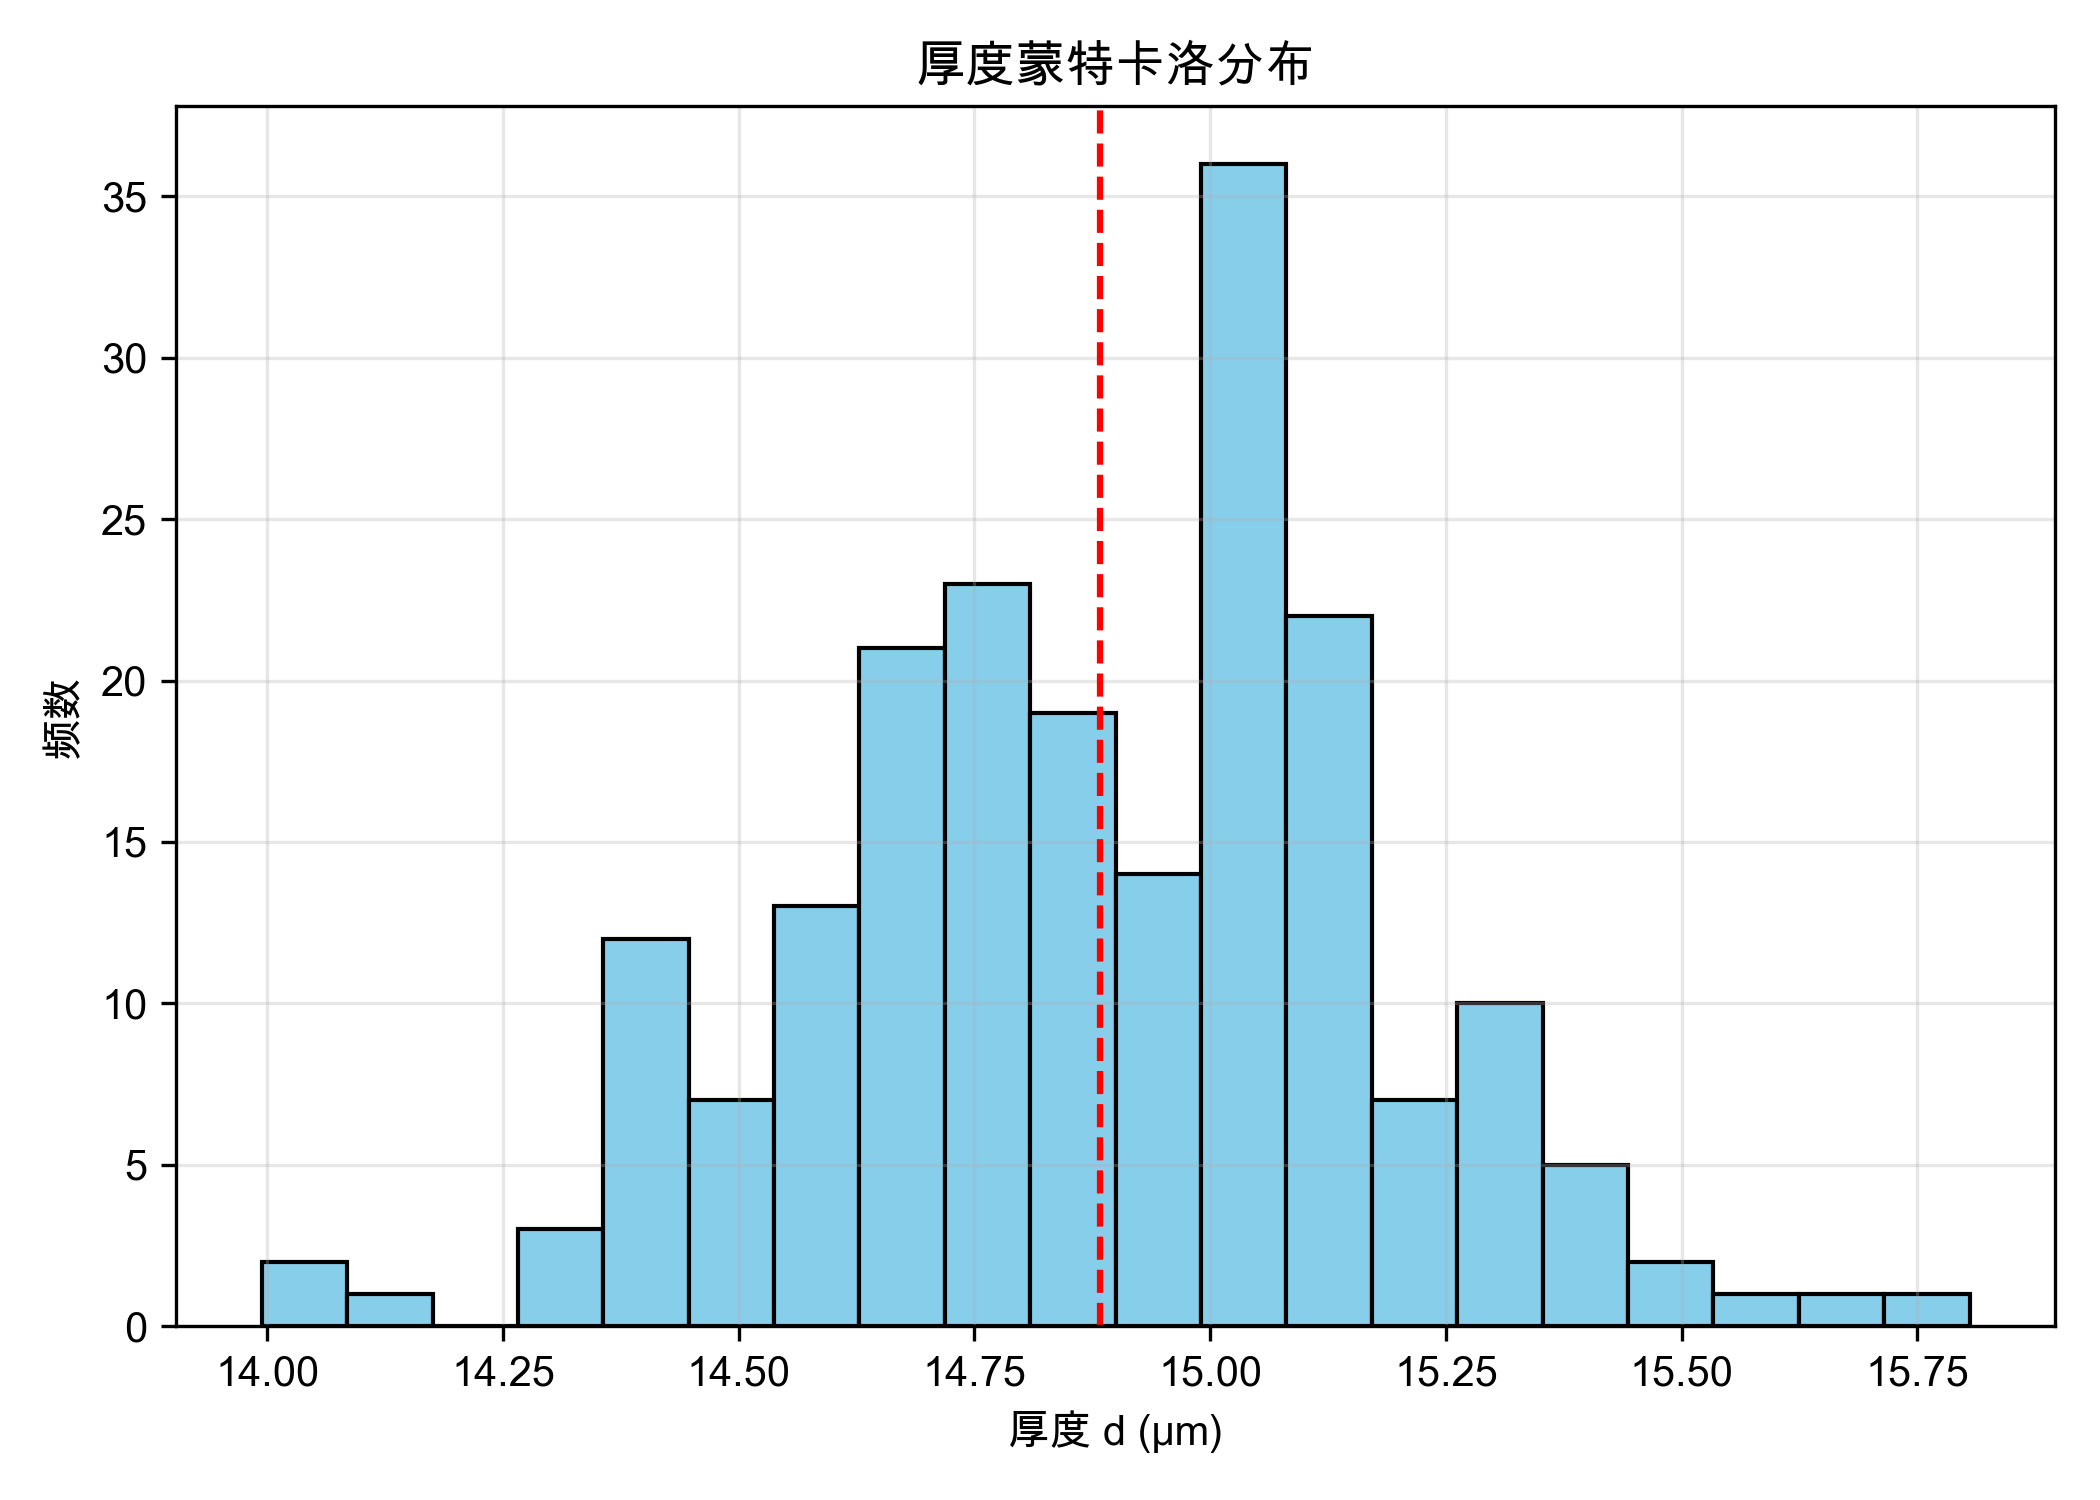
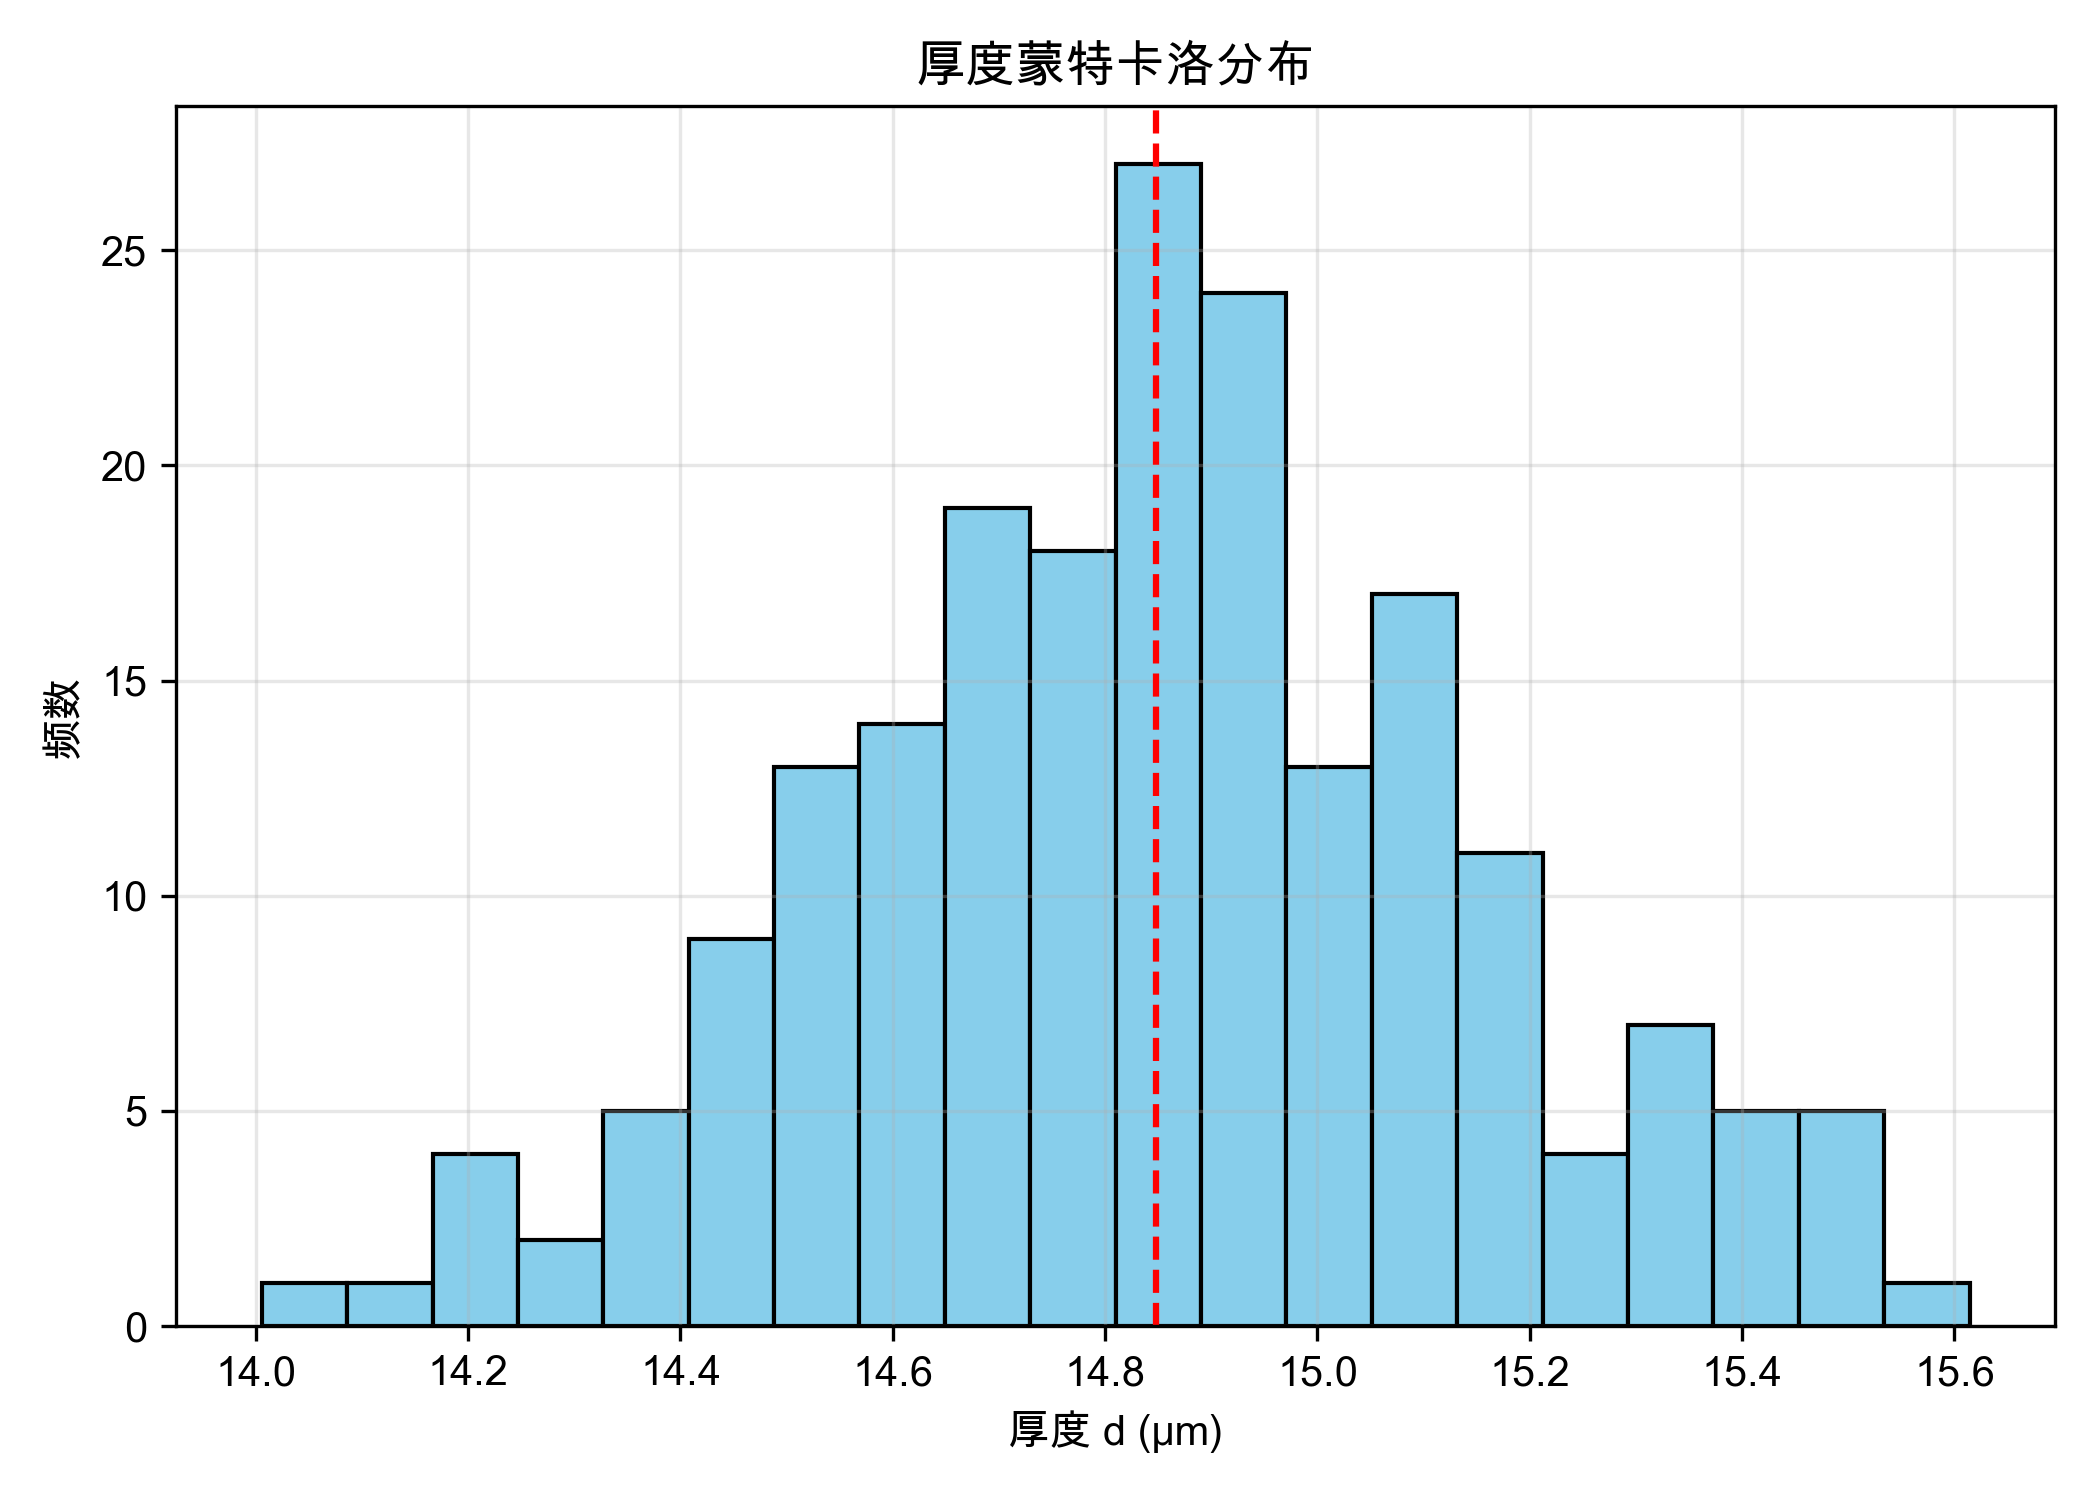
加入滤波

diff --git a/问题3/代码/附件4.py b/问题3/代码/附件4.py
@@ -2,7 +2,7 @@ import numpy as np
 import pandas as pd
 import matplotlib.pyplot as plt
 from scipy.optimize import minimize
-from scipy.signal import find_peaks
+from scipy.signal import find_peaks, savgol_filter
 import os, matplotlib
 
 # 实验参数
@@ -28,19 +28,19 @@ def airy_reflectance(lam, d, A, B, C):
     return (r01**2 + r12**2 + 2*np.abs(r01*r12)*np.cos(2*delta)) / \
            (1 + (r01*r12)**2 + 2*np.abs(r01*r12)*np.cos(2*delta))
 
-# --- 目标函数 ---
-def objective(params, lam, R_exp):
-    d, A, B, C = params
-    return np.mean((airy_reflectance(lam, d, A, B, C) - R_exp)**2)
-
 # --- 数据读取 ---
 df = pd.read_excel("问题3/附件/附件4.xlsx", header=None, skiprows=1)
 wavelength = 1e4 / df.iloc[:,0].astype(float).to_numpy()
 R_exp = df.iloc[:,1].astype(float).to_numpy() / 100
 
-# --- 优化求解 ---
+# --- 数据平滑 ---
+reflectance_filtered = savgol_filter(R_exp, 11, 3)
+
+# --- 优化求解 (基于原始数据) ---
 init_params = [3.0, 2.6, 0.01, 0.0]
-res = minimize(objective, init_params, args=(wavelength, R_exp), method="Nelder-Mead")
+res = minimize(objective := lambda params, lam, R_exp: 
+               np.mean((airy_reflectance(lam, *params) - R_exp)**2),
+               init_params, args=(wavelength, R_exp), method="Nelder-Mead")
 d_fit, A_fit, B_fit, C_fit = res.x
 
 # --- 拟合结果 ---
@@ -48,43 +48,28 @@ R_fit = airy_reflectance(wavelength, d_fit, A_fit, B_fit, C_fit)
 r2 = 1 - np.sum((R_exp - R_fit)**2) / np.sum((R_exp - np.mean(R_exp))**2)
 rmse = np.sqrt(np.mean((R_fit - R_exp)**2))
 
-# --- 保存报告 ---
-report = f"""
-SiC 外延层厚度拟合报告 (15° 入射角)
-================================
-拟合厚度: d = {d_fit:.4f} μm
-Cauchy 参数: A={A_fit:.6f}, B={B_fit:.6f}, C={C_fit:.6e}
-拟合质量: R² = {r2:.6f}, RMSE = {rmse:.6e}
-"""
-with open(os.path.join(output_dir, "附件4拟合报告.txt"), "w", encoding="utf-8") as f:
-    f.write(report)
-
-# --- 导出对比表 ---
-pd.DataFrame({"波长 (μm)": wavelength, "实验反射率": R_exp, "拟合反射率": R_fit}).to_excel(
-    os.path.join(output_dir, "附件4拟合曲线数据.xlsx"), index=False
-)
-
-# --- 图1: 拟合对比 ---
+# --- 图1: 原始 vs 滤波 vs 拟合 ---
 plt.figure(figsize=(8,5))
-plt.plot(wavelength, R_exp, 'b.', label="实验数据")
+plt.plot(wavelength, R_exp, 'b.', alpha=0.5, label="实验数据(原始)")
+plt.plot(wavelength, reflectance_filtered, 'g-', linewidth=1, label="滤波后数据")
 plt.plot(wavelength, R_fit, 'r-', label=f"拟合曲线 (d={d_fit:.3f} μm)")
 plt.xlabel("波长 (μm)"); plt.ylabel("反射率")
 plt.title("附件4公式拟合 (15° 入射角)")
 plt.legend(); plt.grid(alpha=0.3)
-plt.savefig(os.path.join(output_dir, "附件4拟合结果.png"), dpi=300)
+plt.savefig(os.path.join(output_dir, "附件4_拟合对比.png"), dpi=300)
 plt.show()
 
-# --- 图2: 干涉条纹 ---
-peaks, _ = find_peaks(R_exp, distance=30)
+# --- 图2: 干涉条纹 (基于滤波数据) ---
+peaks, _ = find_peaks(reflectance_filtered, distance=30)
 lambda_peaks = wavelength[peaks]
 delta_lambda = np.abs(np.diff(lambda_peaks))
 delta_lambda_mean = np.mean(delta_lambda)
 
 plt.figure(figsize=(8,5))
-plt.plot(wavelength, R_exp*100, label="实验反射率", color="blue")
-plt.scatter(lambda_peaks, R_exp[peaks]*100, color="red", s=40, label="干涉峰")
+plt.plot(wavelength, reflectance_filtered*100, label="滤波反射率", color="blue")
+plt.scatter(lambda_peaks, reflectance_filtered[peaks]*100, color="red", s=40, label="干涉峰")
 for i, lam in enumerate(lambda_peaks[:10]):
-    plt.text(lam, R_exp[peaks[i]]*100 + 1, f"{lam:.2f}", fontsize=8, rotation=45)
+    plt.text(lam, reflectance_filtered[peaks[i]]*100 + 1, f"{lam:.2f}", fontsize=8, rotation=45)
 plt.xlabel("波长 (μm)"); plt.ylabel("反射率 (%)")
 plt.title(f"干涉条纹标记 (Δλ≈{delta_lambda_mean:.4f} μm)")
 plt.legend(); plt.grid(alpha=0.3)
@@ -92,35 +77,30 @@ plt.savefig(os.path.join(output_dir, "附件4_干涉条纹标记.png"), dpi=300)
 plt.show()
 
 # --- 导出条纹数据 ---
-pd.DataFrame({"条纹波长_μm": lambda_peaks, "条纹间隔Δλ_μm": np.append(delta_lambda, np.nan)}).to_excel(
+pd.DataFrame({"条纹波长_μm": lambda_peaks, 
+              "条纹间隔Δλ_μm": np.append(delta_lambda, np.nan)}).to_excel(
     os.path.join(output_dir, "附件4_条纹间隔数据.xlsx"), index=False
 )
 
-# -------- 附加功能：厚度可靠性分析 (快速蒙特卡洛) --------
+# --- 蒙特卡洛分析 (基于滤波数据) ---
 n_trials = 200
 d_values = []
-
 for _ in range(n_trials):
-    # 给实验反射率加噪声（±0.5%）
-    noise = np.random.normal(0, 0.005, size=R_exp.shape)
-    R_noisy = np.clip(R_exp + noise, 0, 1)
-
-    # 再拟合厚度（只调整厚度，固定A,B,C，加速计算）
+    noise = np.random.normal(0, 0.005, size=reflectance_filtered.shape)
+    R_noisy = np.clip(reflectance_filtered + noise, 0, 1)
     obj = lambda d: np.mean((airy_reflectance(wavelength, d, A_fit, B_fit, C_fit) - R_noisy)**2)
     d_noisy = minimize(obj, d_fit, method="Nelder-Mead").x[0]
     d_values.append(d_noisy)
 
-# 绘制直方图
 plt.figure(figsize=(7,5))
 plt.hist(d_values, bins=20, color="skyblue", edgecolor="black")
-plt.axvline(np.mean(d_values), color="red", linestyle="--", label=f"均值={np.mean(d_values):.3f} μm")
+plt.axvline(np.mean(d_values), color="red", linestyle="--", 
+            label=f"均值={np.mean(d_values):.3f} μm")
 plt.xlabel("厚度 d (μm)")
 plt.ylabel("频数")
-plt.title("厚度蒙特卡洛分布 (可靠性分析)")
-plt.legend()
-plt.grid(alpha=0.3)
+plt.title("厚度蒙特卡洛分布 (基于滤波数据)")
+plt.legend(); plt.grid(alpha=0.3)
 plt.tight_layout()
 plt.savefig(os.path.join(output_dir, "附件4_厚度分布_MC.png"), dpi=300)
 plt.show()
-
 

diff --git a/问题3/代码/附件3.py b/问题3/代码/附件3.py
@@ -38,7 +38,11 @@ df = pd.read_excel("问题3/附件/附件3.xlsx", header=None, skiprows=1)
 wavelength = 1e4 / df.iloc[:,0].astype(float).to_numpy()
 R_exp = df.iloc[:,1].astype(float).to_numpy() / 100
 
-# --- 优化求解 ---
+# --- 数据平滑 ---
+from scipy.signal import savgol_filter
+reflectance_filtered = savgol_filter(R_exp, 11, 3)  # 窗口长度=11，多项式阶数=3
+
+# --- 优化求解  ---
 init_params = [3.0, 2.6, 0.01, 0.0]
 res = minimize(objective, init_params, args=(wavelength, R_exp), method="Nelder-Mead")
 d_fit, A_fit, B_fit, C_fit = res.x
@@ -48,25 +52,10 @@ R_fit = airy_reflectance(wavelength, d_fit, A_fit, B_fit, C_fit)
 r2 = 1 - np.sum((R_exp - R_fit)**2) / np.sum((R_exp - np.mean(R_exp))**2)
 rmse = np.sqrt(np.mean((R_fit - R_exp)**2))
 
-# --- 保存报告 ---
-report = f"""
-SiC 外延层厚度拟合报告 (10° 入射角)
-================================
-拟合厚度: d = {d_fit:.4f} μm
-Cauchy 参数: A={A_fit:.6f}, B={B_fit:.6f}, C={C_fit:.6e}
-拟合质量: R² = {r2:.6f}, RMSE = {rmse:.6e}
-"""
-with open(os.path.join(output_dir, "附件3拟合报告.txt"), "w", encoding="utf-8") as f:
-    f.write(report)
-
-# --- 导出对比表 ---
-pd.DataFrame({"波长 (μm)": wavelength, "实验反射率": R_exp, "拟合反射率": R_fit}).to_excel(
-    os.path.join(output_dir, "附件3拟合曲线数据.xlsx"), index=False
-)
-
-# --- 图1: 拟合对比 ---
+# --- 图1: 拟合对比 (原始 vs 拟合) ---
 plt.figure(figsize=(8,5))
-plt.plot(wavelength, R_exp, 'b.', label="实验数据")
+plt.plot(wavelength, R_exp, 'b.', alpha=0.5, label="实验数据(原始)")
+plt.plot(wavelength, reflectance_filtered, 'g-', linewidth=1, label="滤波后数据")
 plt.plot(wavelength, R_fit, 'r-', label=f"拟合曲线 (d={d_fit:.3f} μm)")
 plt.xlabel("波长 (μm)"); plt.ylabel("反射率")
 plt.title("附件3公式拟合 (10° 入射角)")
@@ -74,24 +63,25 @@ plt.legend(); plt.grid(alpha=0.3)
 plt.savefig(os.path.join(output_dir, "附件3拟合结果.png"), dpi=300)
 plt.show()
 
-# --- 图2: 干涉条纹 ---
-peaks, _ = find_peaks(R_exp, distance=30)
+# --- 图2: 干涉条纹 (基于滤波) ---
+peaks, _ = find_peaks(reflectance_filtered, distance=30)
 lambda_peaks = wavelength[peaks]
 delta_lambda = np.abs(np.diff(lambda_peaks))
 delta_lambda_mean = np.mean(delta_lambda)
+lambda_center = np.median(lambda_peaks)
 
 plt.figure(figsize=(8,5))
-plt.plot(wavelength, R_exp*100, label="实验反射率", color="blue")
-plt.scatter(lambda_peaks, R_exp[peaks]*100, color="red", s=40, label="干涉峰")
+plt.plot(wavelength, reflectance_filtered*100, label="滤波反射率", color="blue")
+plt.scatter(lambda_peaks, reflectance_filtered[peaks]*100, color="red", s=40, label="干涉峰")
 for i, lam in enumerate(lambda_peaks[:10]):
-    plt.text(lam, R_exp[peaks[i]]*100 + 1, f"{lam:.2f}", fontsize=8, rotation=45)
+    plt.text(lam, reflectance_filtered[peaks[i]]*100 + 1, f"{lam:.2f}", fontsize=8, rotation=45)
 plt.xlabel("波长 (μm)"); plt.ylabel("反射率 (%)")
 plt.title(f"干涉条纹标记 (Δλ≈{delta_lambda_mean:.4f} μm)")
 plt.legend(); plt.grid(alpha=0.3)
 plt.savefig(os.path.join(output_dir, "附件3_干涉条纹标记.png"), dpi=300)
 plt.show()
 
-# --- 导出条纹数据 ---
+# --- 导出条纹数据 (基于滤波) ---
 pd.DataFrame({"条纹波长_μm": lambda_peaks, "条纹间隔Δλ_μm": np.append(delta_lambda, np.nan)}).to_excel(
     os.path.join(output_dir, "附件3_条纹间隔数据.xlsx"), index=False
 )
@@ -120,4 +110,20 @@ plt.legend()
 plt.grid(alpha=0.3)
 plt.tight_layout()
 plt.savefig(os.path.join(output_dir, "附件3_厚度分布_MC.png"), dpi=300)
+plt.show()
+
+from scipy.signal import savgol_filter
+
+# -------- 仅滤波后反射率曲线 --------
+reflectance_filtered = savgol_filter(R_exp, 11, 3)  # 窗口长度=11，多项式阶数=3
+
+plt.figure(figsize=(8, 5))
+plt.plot(wavelength, reflectance_filtered*100, label="滤波后反射率", color="blue", linewidth=1.5)
+plt.xlabel("波长 (μm)")
+plt.ylabel("反射率 (%)")
+plt.title("滤波后反射率曲线")
+plt.legend()
+plt.grid(alpha=0.3)
+plt.tight_layout()
+plt.savefig(os.path.join(output_dir, "附件3_滤波后反射率.png"), dpi=300)
 plt.show()

diff --git a/问题2/代码/附件1.py b/问题2/代码/附件1.py
@@ -135,3 +135,16 @@ plt.grid(alpha=0.3)
 plt.tight_layout()
 plt.savefig(os.path.join(output_dir, "厚度分布_MC.png"), dpi=300)
 plt.show()
+
+
+# -------- 仅滤波后反射率曲线 --------
+plt.figure(figsize=(8, 5))
+plt.plot(wavelength, reflectance_filtered*100, label="滤波后反射率", color="blue", linewidth=1.5)
+plt.xlabel("波长 (μm)")
+plt.ylabel("反射率 (%)")
+plt.title("滤波后反射率曲线")
+plt.legend()
+plt.grid(alpha=0.3)
+plt.tight_layout()
+plt.savefig(os.path.join(output_dir, "滤波后反射率.png"), dpi=300)
+plt.show()

diff --git a/问题2/代码/附件2.py b/问题2/代码/附件2.py
@@ -134,3 +134,15 @@ plt.grid(alpha=0.3)
 plt.tight_layout()
 plt.savefig(os.path.join(output_dir, "厚度分布_MC.png"), dpi=300)
 plt.show()
+
+# -------- 仅滤波后反射率曲线 --------
+plt.figure(figsize=(8, 5))
+plt.plot(wavelength, reflectance_filtered*100, label="滤波后反射率", color="blue", linewidth=1.5)
+plt.xlabel("波长 (μm)")
+plt.ylabel("反射率 (%)")
+plt.title("滤波后反射率曲线")
+plt.legend()
+plt.grid(alpha=0.3)
+plt.tight_layout()
+plt.savefig(os.path.join(output_dir, "滤波后反射率.png"), dpi=300)
+plt.show()
